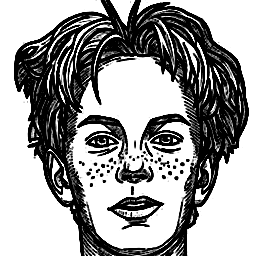
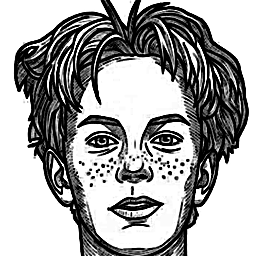
TE-73: Kinder-Avatare als Positiv – Kopf freigestellt statt invertierter Linien, Version 2.67.2

diff --git a/src/components/ChildAvatar.tsx b/src/components/ChildAvatar.tsx
@@ -6,7 +6,6 @@
 import React from 'react';
 import { View, Text, Image, ImageSourcePropType } from 'react-native';
 import type { ChildConfig } from '../services/family';
-import { useTheme } from '../utils/theme';
 
 const AVATARS: Record<string, ImageSourcePropType> = {
   lenny: require('../../assets/avatars/lenny.png'),
@@ -25,7 +24,6 @@ interface Props {
 }
 
 export default function ChildAvatar({ child, size = 28 }: Props) {
-  const { colors } = useTheme();
   const src = childAvatarSource(child.name);
   const circle = { width: size, height: size, borderRadius: size / 2 };
   if (src) {
@@ -33,8 +31,8 @@ export default function ChildAvatar({ child, size = 28 }: Props) {
       <Image
         source={src}
         accessibilityLabel={child.name}
-        // TE-73: PNGs sind transparente Strichzeichnungen; Linien in Textfarbe (Dark Theme = weiß).
-        style={[circle, { tintColor: colors.text }]}
+        // TE-73: PNGs sind freigestellte Köpfe (Umgebung transparent), ohne Farbring.
+        style={circle}
       />
     );
   }
